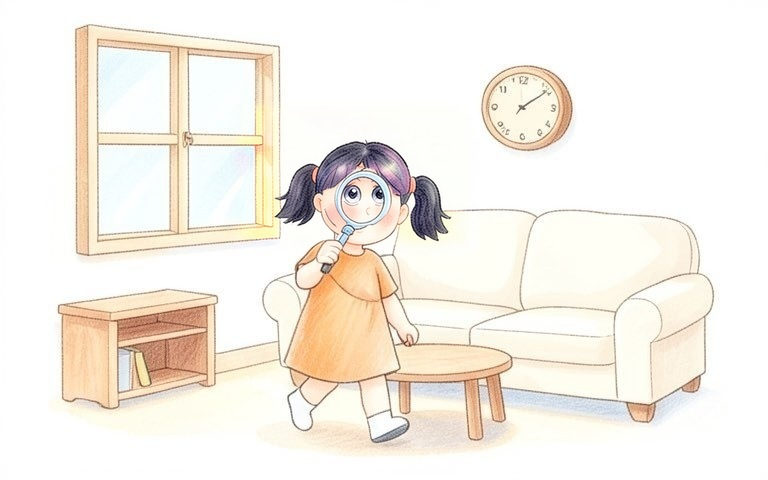
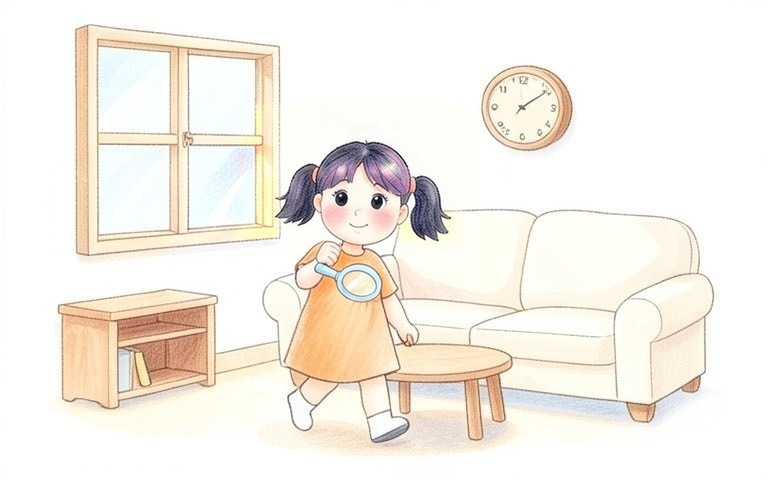
Shapes All Around p1: plain face, girl carries the magnifying glass in her hand

Changed region(s): [[0.4062, 0.3438, 0.5312, 0.625]]

diff --git a/server/scripts/pregen-img.js b/server/scripts/pregen-img.js
@@ -666,7 +666,7 @@ const SCENES = {
   '92-0': ["7-year-old boy|the backpack:|the bedroom:", "the boy holds the new yellow backpack and smiles in his bedroom, only one child"], '92-1': ["7-year-old boy|the backpack:|the bedroom:", "the boy wears the new yellow backpack on his back and turns around to show it off proudly in his bedroom, smiling. No mirror. Only one child"], '92-2': ["7-year-old boy|the backpack:|the bedroom:", "in the same bedroom as the reference picture with the small bed with a blue blanket, the wooden chair and the desk by the window, the boy puts a blue pencil case into his new yellow backpack, which sits open on the desk. Only one child"], '92-3': ["7-year-old boy|his mom|the backpack:", "the boy wearing the new yellow backpack walks to school holding hands with his tall grown-up mom, only one child and one grown-up"], '92-4': ["7-year-old boy|the backpack:", "the boy wearing the new yellow backpack looks up at the very big school building, only one child"], '92-5': ["7-year-old boy", "the boy stands at the open door of the bright first grade classroom, inside the classroom three different children sit at their small desks and look at him curiously. The desks are inside the classroom. Only one boy at the door"], '92-6': ["kind young teacher", "the kind young teacher smiles and waves in front of the blackboard, only one person"], '92-7': ["kind young teacher", "the kind young teacher laughs and holds a picture book, only one person"], '92-8': ["7-year-old boy|the bedroom:", "the boy sits on his bed with a worried face, only one child"], '92-9': ["7-year-old boy|the backpack:", "the boy wearing the new yellow backpack stands alone in a long school hallway and looks around worried, only one child"], '92-10': ["7-year-old boy", "the boy sits alone at one end of a green bench in the school playground with a sad, lonely, worried face, his hands on his knees, looking down at the ground; the slide behind him is empty. Only one child"], '92-11': ["7-year-old boy|his mom|the bedroom:", "his tall grown-up mom sits on the bed and hugs the boy, only one child and one grown-up"], '92-12': ["7-year-old boy|his mom|the bedroom:", "his tall grown-up mom smiles and talks to the boy on the bed, only one child and one grown-up"], '92-13': ["7-year-old boy", "the boy waves hello with a big smile in the classroom, only one child"], '92-14': ["7-year-old boy", "the boy points at himself and smiles in the classroom, only one child"], '92-15': ["7-year-old boy", "the boy holds out a few colorful crayons in his open hand at his desk with a smile, no box, no writing, only one child"], '92-16': ["7-year-old boy", "the boy imagines a new friend, a little thought cloud with a smiling child above his head, only one child"], '92-17': ["7-year-old boy", "the boy eats lunch from a tray at the lunch table next to a new friend, a boy with curly black hair in a red shirt, both smile, only two children"], '92-18': ["7-year-old boy|his mom", "the boy talks excitedly with his arms wide open, his tall grown-up mom listens on the sofa, only one child and one grown-up"], '92-19': ["7-year-old boy|the bedroom:", "in the evening the boy lays his neatly folded white shirt and blue jeans on the seat of the small wooden chair next to his bed, getting ready for tomorrow. Only one child"], '92-20': ["7-year-old boy|the bedroom:", "in the same bedroom as the reference picture with the small bed with a blue blanket, the wooden chair and the desk, at night, the boy holds up a pair of new white sneakers and smiles. Only one child"], '92-21': ["7-year-old boy|the bedroom:", "the boy sits on his bed and hugs his knees, a little nervous but smiling, only one child"], '92-22': ["the backpack:|the bedroom:", "the new yellow backpack sitting on a chair in an empty bedroom at night, the moon in the dark window, no people, no faces anywhere"], '92-23': ["7-year-old boy|the bedroom:", "the boy sleeps alone in his bed under a blanket, the moon outside the window, nobody at the window, only one child, only one pillow"],
   '93-0': ['', 'a calm night sky with one round moon and many small stars over little hills and houses, nobody around'], '93-1': ['', 'one brown owl with big round yellow eyes sitting on a tree branch under a round moon, only one bird'], '93-2': ['', 'one soft white fluffy pillow on a bed, nothing else'], '93-3': ['', 'one small round brown quail with a little feather on its head standing on the grass, only one bird'], '93-4': ['', 'one raccoon with a black mask face and a striped tail standing on a log, only one animal'], '93-5': ['', 'one big bright yellow star shining in the dark blue sky, only one star'], '93-6': ['', 'one soft brown teddy bear sitting alone on a bed, the window curtains are closed, nobody else in the room, only one toy'], '93-7': ['', "a bedroom at night seen from the side: a wooden bed with four tall legs and a high open space under it where you can see the floor, one small orange cat sleeps curled up on the floor under the middle of the bed, the cat lies on the floor and not on the bed, the mattress and blanket are above the cat, the small cat fits completely between the bed legs and nothing of it sticks out, only one animal"], '93-8': ['', 'a green valley between two big hills with a little river, nobody around'], '93-9': ['', 'one gray wolf howling on a rock, one round moon in the sky, only one animal'], '93-10': ['', "one red fox sitting in a quiet forest at night under the moon, its bushy tail around its feet, drawn like a real animal on four legs"], '93-11': ['', 'a 5-year-old boy with short black hair in blue pajamas with little stars yawns with his eyes closed and covers his mouth with his hand, sleepy, by his bed, curtains closed, only one child'], '93-12': ['', 'one blue jacket with a shiny silver zipper hanging on a hook on the wall, nobody is wearing it, nothing else'], '93-13': ['5-year-old boy', 'the boy kneels on his bed and looks up at the night sky through the big window, one moon, nobody outside, only one child'], '93-14': ['5-year-old boy', 'the boy points at the stars through the big window, counting, one round full moon, nobody outside, only one child'], '93-15': ['5-year-old boy', 'the boy sleeps in his bed under a blanket with a teddy bear, one round full moon outside the window, nobody at the window, only one child'],
   '94-0': ['Jen,', 'Jen the red spider smiles on a green leaf, only one spider'], '94-1': ['Jen,', 'Jen the red spider sits on a tall green flower stem, only one spider'], '94-2': ['Jen,', "Jen the red spider is in the middle of making her web between two tall flower stems: she hangs in the air on a thin silver silk thread and pulls a long new thread from one flower stem across to the other stem, only two or three threads are done so far, the web is not finished yet, only one spider"], '94-3': ['Jen,', 'a big round shiny silver spider web between two tall flower stems, Jen the red spider sits in the middle, only one spider'], '94-4': ['', "one big gray rain cloud covers the sky above the garden and hides the sun, below it two tall green flower stems stand on the ground and a big round silver spider web hangs between the two stems, the web is tied to the stems, nobody around"], '94-5': ['', 'rain falls on a big round shiny silver spider web between two tall flower stems, nobody around'], '94-6': ['', 'a close look at big round water drops on a silver spider web, nothing else'], '94-7': ['Jen,', 'a torn wet messy spider web hangs between two flower stems, Jen the red spider looks at it in surprise, only one spider'], '94-8': ['Jen,', "Jen the red spider sits sadly in the middle of her broken spider web, the web is torn in many places with loose broken threads hanging down and big holes, water drops on it, Jen looks sad with a small tear, only one spider"], '94-9': ['', 'the bright sun shines again over the wet garden, water drops sparkle on the leaves, nobody around'], '94-10': ['Jen,', "close-up: Jen the red spider stands in the middle of a torn spider web that hangs between two tall flower stems, her eight legs hold the threads of the web, she smiles a big determined smile, ready to work, sunshine, only one spider"], '94-11': ['Jen,', 'Jen the red spider fixes the torn web with new silver thread, only one spider'], '94-12': ['Jen,', 'only Jen, one red spider all alone, works hard spinning new silk threads on her web, little sweat drops, no other spiders anywhere'], '94-13': ['Jen,', 'a big round shiny silver spider web between two tall flower stems sparkling in the sun, perfect and new, Jen the red spider proud in the middle, only one spider'], '94-14': ['Jen,', 'Jen the red spider relaxes in the middle of a big round shiny silver spider web between two tall flower stems with her eyes closed, only one spider'], '94-15': ['Jen,', "Jen the red spider sits happily in the middle of a big round shiny silver spider web between two tall flower stems, smiling, all eight thin legs holding the web, she does not wave, a spider has no hands and no fingers, little sparkles, only one spider"],
-  '95-0': ["5-year-old girl|the living room:","the girl walks through the living room holding a big round magnifying glass in front of her face with one hand, looking around for shapes; the lens is wide enough to cover both of her eyes, and through the glass both eyes look just a little bigger than normal, the same size as each other. Only one child"], '95-1': ["the living room:", "a closer look at the wall above the cream sofa: one round wooden wall clock with no numbers and two black hands. No people"], '95-2': ["5-year-old girl|the living room:", "the girl stands by the cream sofa, points at the round wooden wall clock with no numbers and draws a big circle in the air with her finger, a dotted circle line follows her finger. Only one child"], '95-3': ["the kitchen:","seen from directly above, looking straight down: the top of the small square wooden kitchen table fills most of the picture, one round white plate in the middle looks like a perfect circle, a fork lies beside it, a little of the kitchen floor at the edges. No people"], '95-4': ["5-year-old girl|the living room:", "the girl stands next to the big square window with four square glass panes on the living room wall and smiles, touching the window frame. Only one child"], '95-5': ["", "a close look at one big square window with a white frame and four small square glass panes on a cream wall, blue sky and a green tree outside. Nothing else, no people, no toys, no dolls"], '95-6': ["5-year-old girl|the kitchen:", "in the kitchen, the girl holds a small white plate with one sandwich cut into a triangle, with bread, lettuce and cheese, she smiles. Only one child"], '95-7': ["the kitchen:", "a close look at one triangle sandwich half with white bread, green lettuce, yellow cheese and pink ham on a small white plate on the table. No people"], '95-8': ["5-year-old girl|the living room:", "in the living room, the girl holds up one closed rectangle red book with a blank cover with both hands, smiling. No words. Only one child"], '95-9': ["the living room:","a top-down view looking straight down from above: one closed red book lying flat on the round wooden coffee table, we see its whole rectangle cover from above, a blank cover with no words; the round table top fills the picture. No people"], '95-10': ["5-year-old girl|the living room:", "in the living room, the girl holds up one golden star-shaped cookie with white icing dots between her fingers with a big smile. Only one child"], '95-11': ["the living room:", "a close look at one golden star-shaped cookie with five points and white icing dots on a small white plate on the coffee table. No people"], '95-12': ["5-year-old girl|the living room:", "in the living room, the girl holds out the back of her hand to show one small shiny red heart sticker stuck on it, smiling. Only one child"], '95-13': ["5-year-old girl|the living room:", "a closer look: the girl holds up one finger and smiles, one small shiny red heart sticker sits on her fingertip. No other hands. Only one child"], '95-14': ["5-year-old girl|the kitchen:", "exactly one girl stands alone in the kitchen by the white fridge and holds one white egg carefully in her open hand to show it, the egg is smaller than her hand. She is the only person in the whole picture, nobody else"], '95-15': ["the kitchen:","a top-down view looking straight down from above at the wooden kitchen table: one white oval egg lies on the bare table top, we see its whole oval shape from above, a soft little shadow beside it. No bowl, no people"], '95-16': ["5-year-old girl", "in the playroom, the girl sits at the small white table with blank white paper and a box of colorful crayons, holding one crayon up, ready to draw. Only one child"], '95-17': ["5-year-old girl", "in the playroom, the girl draws on white paper at the small white table with a blue crayon, a simple square and a red triangle on the paper, seen from the side. Only one child"], '95-18': ["", "a close look at a sheet of white paper on the small white table with a simple child's crayon drawing on it: one blue square with one red triangle on top, like a little house, with a small door, flat drawing, crayons beside it. No people"], '95-19': ["5-year-old girl|the living room:", "in the living room, the girl spreads her arms happily with a big smile, around her are the round wall clock, the square window, the rectangle book, a star cookie and a red heart sticker, small dotted outlines around each shape. Only one child"],
+  '95-0': ["5-year-old girl|the living room:","the girl walks through the living room looking around for shapes with a curious smile, her face fully visible with two normal eyes; she carries a big round magnifying glass in one hand down at her side, holding it by the handle, not in front of her face. Only one child"], '95-1': ["the living room:", "a closer look at the wall above the cream sofa: one round wooden wall clock with no numbers and two black hands. No people"], '95-2': ["5-year-old girl|the living room:", "the girl stands by the cream sofa, points at the round wooden wall clock with no numbers and draws a big circle in the air with her finger, a dotted circle line follows her finger. Only one child"], '95-3': ["the kitchen:","seen from directly above, looking straight down: the top of the small square wooden kitchen table fills most of the picture, one round white plate in the middle looks like a perfect circle, a fork lies beside it, a little of the kitchen floor at the edges. No people"], '95-4': ["5-year-old girl|the living room:", "the girl stands next to the big square window with four square glass panes on the living room wall and smiles, touching the window frame. Only one child"], '95-5': ["", "a close look at one big square window with a white frame and four small square glass panes on a cream wall, blue sky and a green tree outside. Nothing else, no people, no toys, no dolls"], '95-6': ["5-year-old girl|the kitchen:", "in the kitchen, the girl holds a small white plate with one sandwich cut into a triangle, with bread, lettuce and cheese, she smiles. Only one child"], '95-7': ["the kitchen:", "a close look at one triangle sandwich half with white bread, green lettuce, yellow cheese and pink ham on a small white plate on the table. No people"], '95-8': ["5-year-old girl|the living room:", "in the living room, the girl holds up one closed rectangle red book with a blank cover with both hands, smiling. No words. Only one child"], '95-9': ["the living room:","a top-down view looking straight down from above: one closed red book lying flat on the round wooden coffee table, we see its whole rectangle cover from above, a blank cover with no words; the round table top fills the picture. No people"], '95-10': ["5-year-old girl|the living room:", "in the living room, the girl holds up one golden star-shaped cookie with white icing dots between her fingers with a big smile. Only one child"], '95-11': ["the living room:", "a close look at one golden star-shaped cookie with five points and white icing dots on a small white plate on the coffee table. No people"], '95-12': ["5-year-old girl|the living room:", "in the living room, the girl holds out the back of her hand to show one small shiny red heart sticker stuck on it, smiling. Only one child"], '95-13': ["5-year-old girl|the living room:", "a closer look: the girl holds up one finger and smiles, one small shiny red heart sticker sits on her fingertip. No other hands. Only one child"], '95-14': ["5-year-old girl|the kitchen:", "exactly one girl stands alone in the kitchen by the white fridge and holds one white egg carefully in her open hand to show it, the egg is smaller than her hand. She is the only person in the whole picture, nobody else"], '95-15': ["the kitchen:","a top-down view looking straight down from above at the wooden kitchen table: one white oval egg lies on the bare table top, we see its whole oval shape from above, a soft little shadow beside it. No bowl, no people"], '95-16': ["5-year-old girl", "in the playroom, the girl sits at the small white table with blank white paper and a box of colorful crayons, holding one crayon up, ready to draw. Only one child"], '95-17': ["5-year-old girl", "in the playroom, the girl draws on white paper at the small white table with a blue crayon, a simple square and a red triangle on the paper, seen from the side. Only one child"], '95-18': ["", "a close look at a sheet of white paper on the small white table with a simple child's crayon drawing on it: one blue square with one red triangle on top, like a little house, with a small door, flat drawing, crayons beside it. No people"], '95-19': ["5-year-old girl|the living room:", "in the living room, the girl spreads her arms happily with a big smile, around her are the round wall clock, the square window, the rectangle book, a star cookie and a red heart sticker, small dotted outlines around each shape. Only one child"],
   '96-0': ['the hairdresser|the salon:', "the hairdresser stands in the open glass doorway of the salon and waves hello with a big smile. She is the only person in the picture"], '96-1': ['long messy brown hair|the salon:', "the boy with long messy hair stands inside the salon, points at his messy hair and smiles. Only one child"], '96-2': ['long messy brown hair|the hairdresser|the salon:', "the hairdresser points at the big black salon chair, the boy looks at it. Only one child and one grown-up"], '96-3': ['long messy brown hair|the salon:', "the boy sits very low in the big black salon chair, only his head and shoulders show above the chair arms. Only one child"], '96-4': ['long messy brown hair|the salon:', "the boy sits low in the big salon chair and stretches his neck up to see, his chin up. No mirror. Only one child"], '96-5': ['long messy brown hair|the hairdresser|the salon:', "the hairdresser presses the silver pedal with her foot and the big salon chair goes up, the boy laughs, little up arrows of motion. Only one child and one grown-up"], '96-6': ['long messy brown hair|the hairdresser|the salon:', "the hairdresser stands behind the boy in the salon chair holding a comb and asks, the boy wears a blue salon cape. There is only one salon chair and only one boy: the boy sits in that one chair and appears once; the hairdresser stands next to him. Exactly two people in the whole picture."], '96-7': ['long messy brown hair|the salon:', "the boy sits in the salon chair with a blue salon cape around him and holds up his finger and thumb a little apart to show short. Only one child"], '96-8': ['long messy brown hair|the hairdresser|the salon:', "the hairdresser holds up a comb near the boy's forehead and asks with a smile, the boy sits in the salon chair in the blue cape. There is only one salon chair and only one boy: the boy sits in that one chair and appears once; the hairdresser stands next to him. Exactly two people in the whole picture."], '96-9': ['long messy brown hair|the salon:', "the boy sits in the salon chair in the blue cape and nods happily. Only one child"], '96-10': ['long messy brown hair|the hairdresser|the salon:', "the boy sits in the salon chair in the blue cape and the hairdresser sprays water on his hair with a small spray bottle, tiny water drops in the air, the boy squints. There is only one salon chair and only one boy: the boy sits in that one chair and appears once; the hairdresser stands next to him. Exactly two people in the whole picture."], '96-11': ['long messy brown hair|the hairdresser|the salon:', "the hairdresser cuts the boy's hair with scissors, little bits of brown hair fall on the blue cape, snip lines. Only one child and one grown-up"], '96-12': ['long messy brown hair|the hairdresser|the salon:', "the hairdresser stands beside the seated boy and cuts the hair over his ear with scissors, asking. There is only one salon chair and only one boy: the boy sits in that one chair and appears once; the hairdresser stands next to him. Exactly two people in the whole picture."], '96-13': ['long messy brown hair|the salon:', "the boy sits in the salon chair in the blue cape and laughs with his shoulders up because it tickles his ears. Only one child"], '96-14': ['long messy brown hair|the salon:', "the boy sits very still in the salon chair in the blue cape with his eyes shut tight. Only one child, nobody else in the picture"], '96-15': ['long messy brown hair|the salon:', "the boy in the blue cape sits very still with a serious face and his lips pressed together. Only one child"], '96-16': ['after his haircut|the salon:', "the boy with his new short neat hair and short bangs points at his new bangs with a smile. No mirror, only one child"], '96-17': ['after his haircut|the salon:', "the boy with short neat hair touches his new short hair and looks up, asking. Only one child"], '96-18': ['after his haircut|the salon:', "the boy with short neat hair smiles very big and gives a thumbs-up. Only one child"], '96-19': ['after his haircut|the salon:', "the boy with short neat hair waves goodbye at the glass salon door. Only one child"],
   '97-0': ["the lake:", "a warm sunny spring lake with pink flowers and green reeds, nobody around"], '97-1': ["mother duck|the lake:|the lake:", "the mother duck sits on her nest of eggs in the reeds by the lake, only one duck"], '97-2': ["yellow ducklings", "three small fluffy yellow ducklings sit together in a straw nest with broken eggshells around them, no grown-up duck, no whole eggs, only three ducklings"], '97-3': ["yellow ducklings", "a close look at three small fluffy yellow ducklings, only three ducklings"], '97-4': ["", "one big white egg alone in the nest with broken shells around it, nobody around"], '97-5': ["gray duckling","in the straw nest on the grass by the lake, the big white egg cracks open and the big gray duckling pops his head and neck out of the broken shell; the empty pink shells of the other eggs lie in the nest. Only one gray duckling, the nest is on dry land"], '97-6': ["gray duckling|yellow ducklings", "the big gray duckling stands next to exactly three small yellow ducklings in a row, he is much bigger, one gray and three yellow, nobody else"], '97-7': ["gray duckling", "the gray duckling stands alone, his big feet and long neck easy to see, full body, only one duckling"], '97-8': ["yellow ducklings|gray duckling", "three yellow ducklings laugh at the sad gray duckling, only four ducklings"], '97-9': ["gray duckling", "the gray duckling sits alone with a sad face and a small tear, only one duckling"], '97-10': ["gray duckling|the lake:|the lake:", "the gray duckling swims away alone across the lake, only one duckling"], '97-11': ["gray duckling|the lake:|the lake:", "the gray duckling swims alone on the lake, brown leaves fall, gray sky, only one duckling"], '97-12': ["the lake:","the lake in winter is frozen solid: a flat white sheet of ice covers the whole lake, with cracks and a light dusting of snow on top, no open water anywhere; snow on the brown reeds along the shore. Nobody around"], '97-13': ["gray duckling", "the gray duckling hides in dry brown grass by the frozen lake, only one duckling"], '97-14': ["gray duckling", "cold wind blows snow, the gray duckling closes his eyes in the dry grass, only one duckling"], '97-15': ["the lake:", "the ice melts and the warm spring sun shines on the lake, green buds on the trees, nobody around"], '97-16': ["the lake:", "soft green grass and little flowers by the blue lake, nobody around"], '97-17': ["the lake:", "three beautiful white swans with long necks swim on the blue lake, only three swans"], '97-18': ["","a close look at exactly three big white swans with long curved necks and orange beaks gliding side by side on the calm lake. Exactly three swans, all three fully shown"], '97-19': ["", "one white swan all alone on the calm water bends its long neck down and looks at its own reflection, only one swan, no other birds"], '97-20': ["", "a young white swan with a long neck spreads his big white wings on the lake and smiles, only one swan"], '97-21': ["","the young white swan swims together with the three white swans on the blue lake in the sun, all four in a row, happy. Exactly four white swans, all four fully shown"],
   '98-0': ["", "snow falls on a dark mountain at night, nobody around"], '98-1': ["tiger", "the big tiger walks down the snowy mountain path, only one tiger"], '98-2': ["tiger", "the tiger licks his lips and rubs his tummy, hungry, only one tiger"], '98-3': ["tiger|the house:|the house:", "the tiger stands all alone in the snow and looks at a little thatched house with warm light in the window, nobody at the window, only one tiger, no other animals"], '98-4': ["the mom|the room:|the room:", "only one person in the room: the mom in a hanbok with her hair in a bun holds one tiny crying newborn baby wrapped in a soft blanket in her arms, the baby is lying in her arms"], '98-5': ["the mom|the room:","the mom in a light blue hanbok sits on the floor and holds one single tiny baby wrapped in a white blanket in her arms; the one baby cries very loudly with its mouth wide open, little loud lines around its face. Exactly one baby with one head, and one mom. Nobody else"], '98-6': ["the mom|baby|the room:|the room:", "the mom rocks one tiny crying baby in her arms"], '98-7': ["the mom|the room:|the room:", "only one person in the room: the mom in a hanbok holds one tiny newborn baby wrapped in a soft blanket in her arms, the baby cries even louder with big tears, the baby is lying in her arms"], '98-8': ["tiger|the house:|the house:", "outside in the snow, the tiger presses his ear to the house wall and listens with a surprised face, only one tiger"], '98-9': ["the mom|the room:|the room:", "only one person in the room: the mom in a hanbok holds one tiny newborn baby wrapped in a soft blanket in one arm and holds out one orange dried persimmon with her other hand, the baby is lying in her arms"], '98-10': ["the mom|the room:", "only one person in the room: the mom in a hanbok holds one tiny newborn baby wrapped in a soft blanket in her arms, the baby is calm and smiling, the baby is lying in her arms. Who is in the picture: one tiny newborn baby wrapped in a soft blanket, always held in the mom's arms; the mom, a grown-up woman in a simple Korean hanbok with her hair in a bun. exactly two people in the whole picture, each person appears only once, nobody else"], '98-11': ["tiger|the house:|the house:", "the tiger stands all alone in the snow outside the house and shakes with fear, his eyes wide, only one tiger, no other animals"], '98-12': ["tiger", "the tiger shakes with fear and imagines a giant orange persimmon monster with angry eyes in a thought cloud above his head, only one tiger"], '98-13': ["tiger|thief", "in the dark the thief jumps down onto the tiger's back, the tiger looks shocked, only one tiger and one man"], '98-14': ["thief","the thief in dark clothes with a black cloth over his mouth sneaks through the snow toward the small wooden cow shed in the dark, on tiptoe. Only one person, no animals outside the shed"], '98-15': ["tiger|thief", "in the dark night the thief sits on the tiger's back and squints, he cannot see well, only one tiger and one man"], '98-16': ["tiger|thief", "the thief rides on the back of the scared tiger as the tiger starts to run, nobody walks beside them, only one tiger and one man on top"], '98-17': ["tiger|thief", "the tiger runs very fast through the snowy forest with the thief riding on his back, motion lines, nobody else, only one tiger and one man on top"], '98-18': ["tiger|thief","the tiger runs through the dark snowy forest; the thief lies flat on the tiger's back and hugs the tiger's neck tightly with both arms, both of his legs wrapped around the tiger's body, his eyes squeezed shut, scared. Only one tiger and one man"], '98-19': ["tiger|thief","the tiger keeps running to the right; behind him, the thief has jumped off and falls into the deep soft snow on the left, landing on his back with arms and legs up, snow puffing up around him. Only one tiger and one man"], '98-20': ["tiger", "seen from far away, one tiger runs away up the snowy mountain, small in the distance, only one tiger"], '98-21': ["the house:","the little thatched house is quiet in the snow at night under exactly one round moon in the sky, warm light in the window, nobody outside, nobody at the window. Only one moon"],
